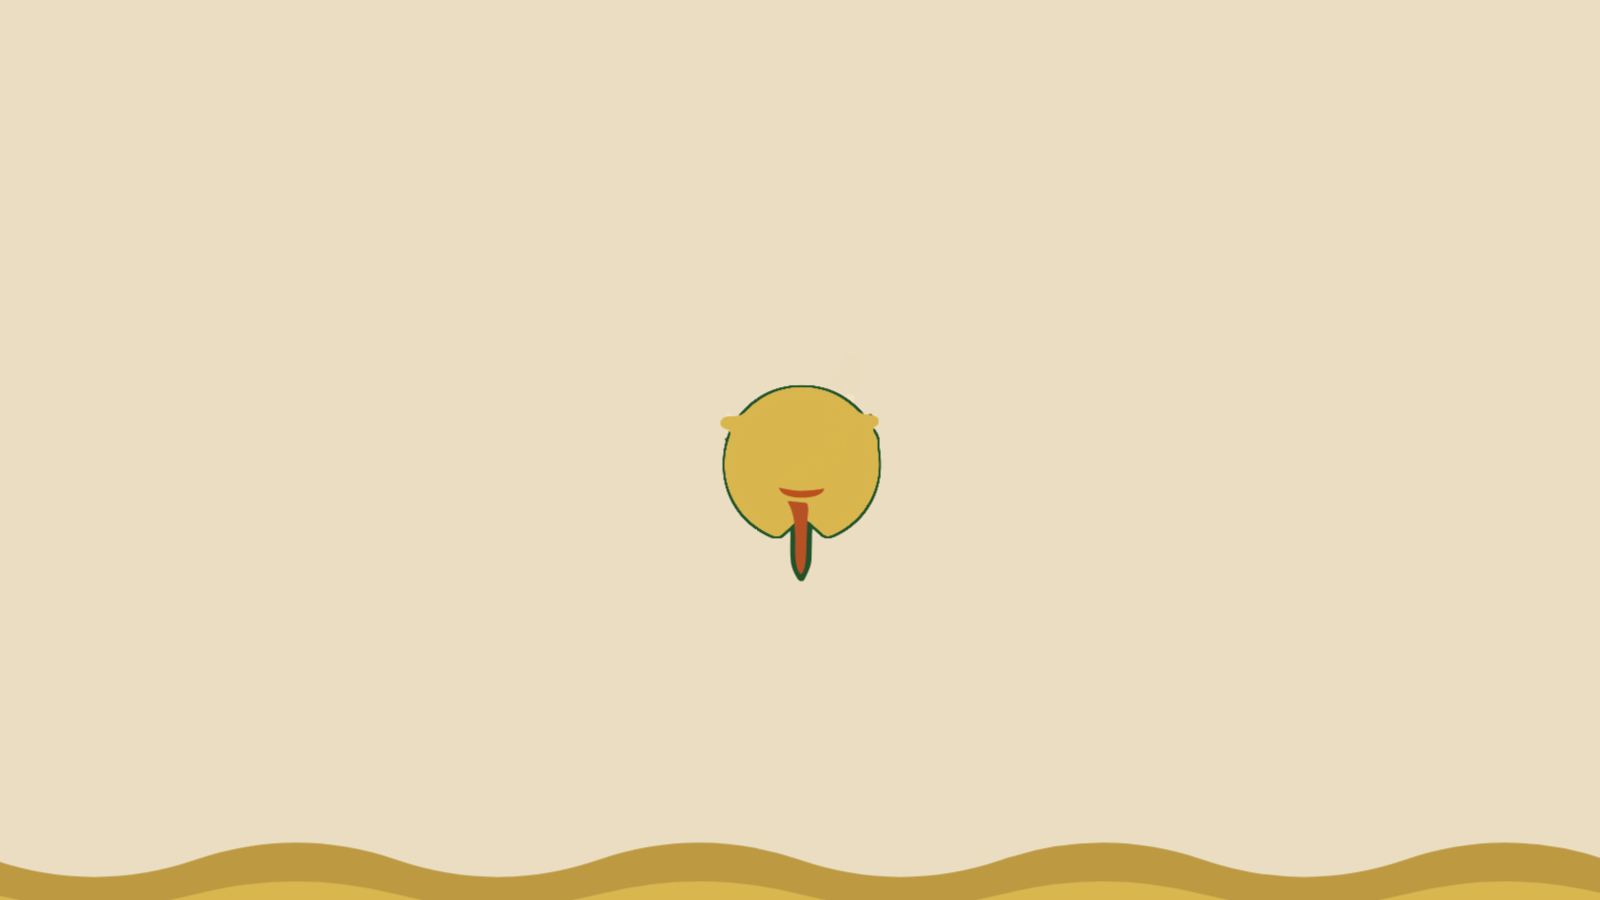
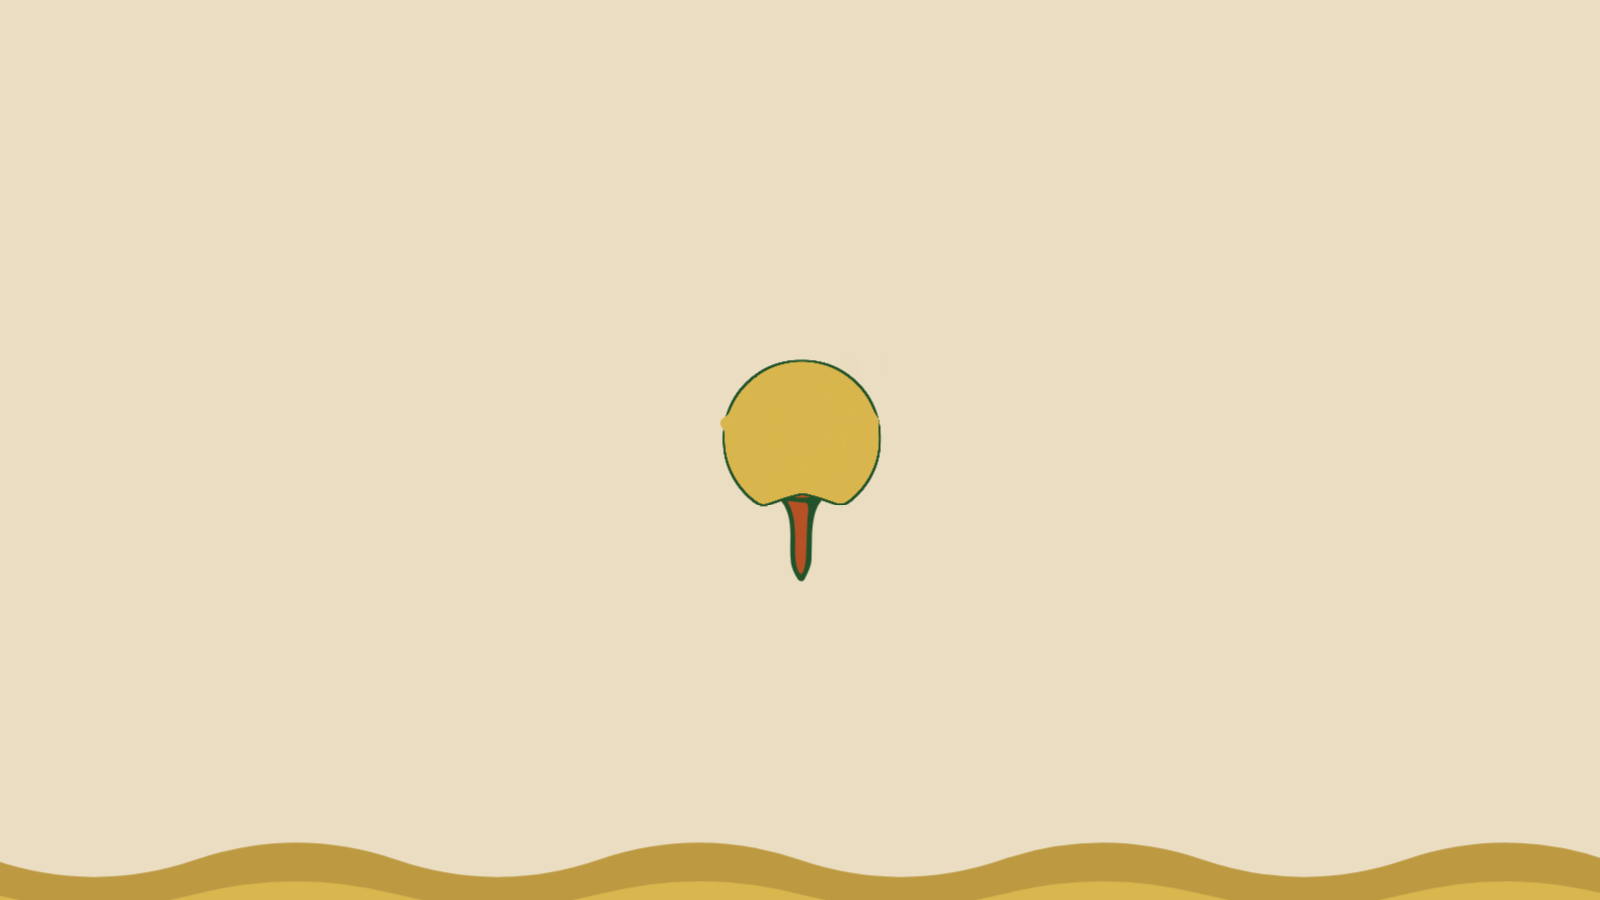
GSAP intro v3.8: true sphere geometry — crown at mid-S
The ball's crown was wrongly taken from the visible crescent's top edge
(y 918.6); the real sphere continues behind the pat. Corrected circle:
crown at the vertical middle of the S in BSG (y 855.9), center 1041.7,
r 185.8. Melt-front start/end re-derived; the butter cap now emerges
from beneath the pat and domes over the true crown.

Claude-Session: https://claude.ai/code/session_01XoixdVZHUDRa8j4FLVb79L

Changed region(s): [[0.4375, 0.4044, 0.5625, 0.6222]]

diff --git a/gsap/intro.html b/gsap/intro.html
@@ -104,7 +104,7 @@
       <g id="moltenRim" filter="url(#gooRim)">
     <g class="rPatArt"><path d="M 1567.0794,805.0633000000001 C 1609.861,795.0788000000001 1653.3692,785.0944000000001 1695.4243,775.1099000000002 L 1773.7997,756.2660000000001 C 1786.7239,753.3075000000001 1795.0346,750.5086000000001 1816.691,757.5790000000001 C 1847.8474,767.7821000000001 1879.2848,777.7509000000001 1910.16,788.1884000000001 C 1924.0271,792.9228000000002 1933.4418,800.1880000000001 1932.8479,822.0788000000001 L 1932.9395,880.4629000000001 C 1933.1039,894.1698000000001 1927.05,900.6620000000001 1914.3782,904.4862 C 1910.2658,905.7034000000001 1906.5003,906.3977000000001 1902.3515,907.9258000000001 C 1895.9406,910.3120000000001 1892.821,912.3362000000001 1889.8157,916.5335000000001 C 1884.0892,924.5998000000001 1878.8074,924.3693000000001 1873.9718,922.2053000000001 C 1864.9911,918.3587000000001 1856.2456,920.3220000000001 1847.3936,923.0492000000002 C 1822.4683,930.6670000000001 1796.3467,938.4243000000001 1770.4716,944.9874000000001 C 1748.5101,950.5189000000001 1734.8494,959.2474000000001 1732.5967,983.3319000000001 C 1731.9557,993.8473000000001 1732.7018,997.5278000000001 1733.2058,1003.0662000000001 C 1733.7997,1008.8865000000001 1733.643,1012.6736000000001 1732.737,1015.3946000000001 C 1730.472,1021.8950000000001 1724.8014,1022.7871000000001 1721.8619,1022.2383000000001 C 1715.6676,1021.0531000000001 1711.0879,1015.0366000000001 1710.6117,1004.5662000000001 C 1710.3696,997.7067000000001 1711.018,988.8320000000001 1710.6585,982.3004000000001 C 1710.1535,972.5685000000001 1704.172,964.7667000000001 1695.471,963.1756000000001 C 1685.9475,961.9009000000001 1679.8106,968.3437000000001 1675.9794,975.8955000000001 C 1674.8351,978.1510000000001 1673.9277,981.3335000000001 1672.5458,983.2364000000001 C 1669.9826,986.6215000000001 1666.1585,985.8627000000001 1661.6597,987.2911000000001 C 1658.1005,988.4210000000002 1655.0391,990.7332000000001 1653.0956,993.4099000000001 C 1649.6583,998.5900000000001 1650.127,1004.2156000000001 1650.6581,1010.1445000000001 C 1651.7055,1017.6450000000001 1654.5805,1023.2701000000002 1653.237,1035.3171000000002 C 1652.3229,1042.6851000000001 1646.8384,1045.2468000000001 1642.1275,1044.6924000000001 C 1633.6237,1043.5574000000001 1631.7006,1031.3709000000001 1632.5794,1024.0595 C 1633.4473,1016.7581000000001 1635.9253,1011.4737 1637.9087,1005.7387000000001 C 1640.1665,999.1215000000001 1642.4243,992.4572000000001 1643.3461,987.3634000000001 C 1645.7846,972.8775 1640.0446,964.7726000000001 1628.252,957.9726 L 1603.408,945.0818000000002 C 1595.5328,941.4846000000001 1586.9546,946.1972000000001 1586.8607,955.0195000000001 L 1586.6266,973.7695000000001 C 1586.2966,979.5165000000001 1583.9887,982.5544000000001 1579.5952,982.5354000000001 C 1566.322,982.2596000000001 1573.1141,959.0186000000001 1571.8606,949.0426000000001 C 1570.6344,940.3734000000001 1567.0397,933.8761000000001 1561.3139,929.3322000000001 C 1556.9303,925.9255 1550.2745,924.6287000000001 1546.1957,920.9414000000002 C 1542.9138,917.8797000000001 1541.1881,913.6515 1540.8048,908.5197000000001 C 1540.1254,899.3867000000001 1540.8989,857.4884000000001 1540.946,831.9726 C 1541.49,815.3735000000001 1552.0326,808.5706000000001 1567.0794,805.0633000000001" fill-rule="evenodd"/></g>
     <g clip-path="url(#coatClip)">
-      <ellipse class="rCoat" cx="1742.1" cy="1104.6" rx="190" ry="190"/>
+      <ellipse class="rCoat" cx="1742.1" cy="1041.7" rx="189.8" ry="189.8"/>
     </g>
     <ellipse class="rRun" cx="1604" cy="962" rx="28" ry="34" data-drift="-50"/>
 <ellipse class="rRun" cx="1676" cy="962" rx="33" ry="34" data-drift="-20"/>
@@ -115,7 +115,7 @@
       <g id="moltenGold" filter="url(#goo)" fill="#D9B64E">
     <g class="gPatArt"><path d="M 1567.0794,805.0633000000001 C 1609.861,795.0788000000001 1653.3692,785.0944000000001 1695.4243,775.1099000000002 L 1773.7997,756.2660000000001 C 1786.7239,753.3075000000001 1795.0346,750.5086000000001 1816.691,757.5790000000001 C 1847.8474,767.7821000000001 1879.2848,777.7509000000001 1910.16,788.1884000000001 C 1924.0271,792.9228000000002 1933.4418,800.1880000000001 1932.8479,822.0788000000001 L 1932.9395,880.4629000000001 C 1933.1039,894.1698000000001 1927.05,900.6620000000001 1914.3782,904.4862 C 1910.2658,905.7034000000001 1906.5003,906.3977000000001 1902.3515,907.9258000000001 C 1895.9406,910.3120000000001 1892.821,912.3362000000001 1889.8157,916.5335000000001 C 1884.0892,924.5998000000001 1878.8074,924.3693000000001 1873.9718,922.2053000000001 C 1864.9911,918.3587000000001 1856.2456,920.3220000000001 1847.3936,923.0492000000002 C 1822.4683,930.6670000000001 1796.3467,938.4243000000001 1770.4716,944.9874000000001 C 1748.5101,950.5189000000001 1734.8494,959.2474000000001 1732.5967,983.3319000000001 C 1731.9557,993.8473000000001 1732.7018,997.5278000000001 1733.2058,1003.0662000000001 C 1733.7997,1008.8865000000001 1733.643,1012.6736000000001 1732.737,1015.3946000000001 C 1730.472,1021.8950000000001 1724.8014,1022.7871000000001 1721.8619,1022.2383000000001 C 1715.6676,1021.0531000000001 1711.0879,1015.0366000000001 1710.6117,1004.5662000000001 C 1710.3696,997.7067000000001 1711.018,988.8320000000001 1710.6585,982.3004000000001 C 1710.1535,972.5685000000001 1704.172,964.7667000000001 1695.471,963.1756000000001 C 1685.9475,961.9009000000001 1679.8106,968.3437000000001 1675.9794,975.8955000000001 C 1674.8351,978.1510000000001 1673.9277,981.3335000000001 1672.5458,983.2364000000001 C 1669.9826,986.6215000000001 1666.1585,985.8627000000001 1661.6597,987.2911000000001 C 1658.1005,988.4210000000002 1655.0391,990.7332000000001 1653.0956,993.4099000000001 C 1649.6583,998.5900000000001 1650.127,1004.2156000000001 1650.6581,1010.1445000000001 C 1651.7055,1017.6450000000001 1654.5805,1023.2701000000002 1653.237,1035.3171000000002 C 1652.3229,1042.6851000000001 1646.8384,1045.2468000000001 1642.1275,1044.6924000000001 C 1633.6237,1043.5574000000001 1631.7006,1031.3709000000001 1632.5794,1024.0595 C 1633.4473,1016.7581000000001 1635.9253,1011.4737 1637.9087,1005.7387000000001 C 1640.1665,999.1215000000001 1642.4243,992.4572000000001 1643.3461,987.3634000000001 C 1645.7846,972.8775 1640.0446,964.7726000000001 1628.252,957.9726 L 1603.408,945.0818000000002 C 1595.5328,941.4846000000001 1586.9546,946.1972000000001 1586.8607,955.0195000000001 L 1586.6266,973.7695000000001 C 1586.2966,979.5165000000001 1583.9887,982.5544000000001 1579.5952,982.5354000000001 C 1566.322,982.2596000000001 1573.1141,959.0186000000001 1571.8606,949.0426000000001 C 1570.6344,940.3734000000001 1567.0397,933.8761000000001 1561.3139,929.3322000000001 C 1556.9303,925.9255 1550.2745,924.6287000000001 1546.1957,920.9414000000002 C 1542.9138,917.8797000000001 1541.1881,913.6515 1540.8048,908.5197000000001 C 1540.1254,899.3867000000001 1540.8989,857.4884000000001 1540.946,831.9726 C 1541.49,815.3735000000001 1552.0326,808.5706000000001 1567.0794,805.0633000000001" fill-rule="evenodd"/></g>
     <g clip-path="url(#coatClip)">
-      <ellipse class="gCoat" cx="1742.1" cy="1104.6" rx="190" ry="190"/>
+      <ellipse class="gCoat" cx="1742.1" cy="1041.7" rx="189.8" ry="189.8"/>
     </g>
     <ellipse class="gRun" cx="1604" cy="962" rx="28" ry="34" data-drift="-50"/>
 <ellipse class="gRun" cx="1676" cy="962" rx="33" ry="34" data-drift="-20"/>
@@ -166,7 +166,7 @@ gsap.set("#badgeMove", { autoAlpha: 0, scale: 0.92, transformOrigin: "50% 50%" }
 gsap.set(["#wmButter", "#wmSticks"], { autoAlpha: 0, y: 40 });
 gsap.set(".golfLetter", { autoAlpha: 0, y: 24 });
 gsap.set(".drop", { autoAlpha: 0 });
-gsap.set("#coatWave", { y: -230 });
+gsap.set("#coatWave", { y: -282 });
 gsap.set(["#pondBack", "#pondFront", "#tide"], { y: 920 });
 gsap.set("svg", { scale: 1.07, transformOrigin: "50% 50%" });
 gsap.set(".rRun, .gRun", { autoAlpha: 0 });
@@ -194,7 +194,7 @@ tl.addLabel("melt", 1.6)
   .to(".rPatArt", { opacity: 0, duration: 1.6, ease: "sine.in" }, "melt+=0.5")
   .to("#eraserRect", { attr: { height: 300 }, duration: 1.6, ease: "power1.out" }, "melt+=0.05")
   // butter coats the ball's crown, hugging the surface
-  .to("#coatWave", { y: 235, duration: 2.5, ease: "power1.inOut" }, "melt+=0.4")
+  .to("#coatWave", { y: 165, duration: 2.5, ease: "power1.inOut" }, "melt+=0.4")
   .to(".rRun, .gRun", { autoAlpha: 1, duration: 0.4, stagger: 0.15 }, "melt+=0.3")
   .to("#hornCover", { opacity: 1, duration: 0.5, ease: "sine.inOut" }, "melt+=0.9")
   // BSG melts letter by letter: stretches, sinks, turns to butter, dissolves

diff --git a/gsap/intro_artifact.html b/gsap/intro_artifact.html
@@ -97,7 +97,7 @@
       <g id="moltenRim" filter="url(#gooRim)">
     <g class="rPatArt"><path d="M 1567.0794,805.0633000000001 C 1609.861,795.0788000000001 1653.3692,785.0944000000001 1695.4243,775.1099000000002 L 1773.7997,756.2660000000001 C 1786.7239,753.3075000000001 1795.0346,750.5086000000001 1816.691,757.5790000000001 C 1847.8474,767.7821000000001 1879.2848,777.7509000000001 1910.16,788.1884000000001 C 1924.0271,792.9228000000002 1933.4418,800.1880000000001 1932.8479,822.0788000000001 L 1932.9395,880.4629000000001 C 1933.1039,894.1698000000001 1927.05,900.6620000000001 1914.3782,904.4862 C 1910.2658,905.7034000000001 1906.5003,906.3977000000001 1902.3515,907.9258000000001 C 1895.9406,910.3120000000001 1892.821,912.3362000000001 1889.8157,916.5335000000001 C 1884.0892,924.5998000000001 1878.8074,924.3693000000001 1873.9718,922.2053000000001 C 1864.9911,918.3587000000001 1856.2456,920.3220000000001 1847.3936,923.0492000000002 C 1822.4683,930.6670000000001 1796.3467,938.4243000000001 1770.4716,944.9874000000001 C 1748.5101,950.5189000000001 1734.8494,959.2474000000001 1732.5967,983.3319000000001 C 1731.9557,993.8473000000001 1732.7018,997.5278000000001 1733.2058,1003.0662000000001 C 1733.7997,1008.8865000000001 1733.643,1012.6736000000001 1732.737,1015.3946000000001 C 1730.472,1021.8950000000001 1724.8014,1022.7871000000001 1721.8619,1022.2383000000001 C 1715.6676,1021.0531000000001 1711.0879,1015.0366000000001 1710.6117,1004.5662000000001 C 1710.3696,997.7067000000001 1711.018,988.8320000000001 1710.6585,982.3004000000001 C 1710.1535,972.5685000000001 1704.172,964.7667000000001 1695.471,963.1756000000001 C 1685.9475,961.9009000000001 1679.8106,968.3437000000001 1675.9794,975.8955000000001 C 1674.8351,978.1510000000001 1673.9277,981.3335000000001 1672.5458,983.2364000000001 C 1669.9826,986.6215000000001 1666.1585,985.8627000000001 1661.6597,987.2911000000001 C 1658.1005,988.4210000000002 1655.0391,990.7332000000001 1653.0956,993.4099000000001 C 1649.6583,998.5900000000001 1650.127,1004.2156000000001 1650.6581,1010.1445000000001 C 1651.7055,1017.6450000000001 1654.5805,1023.2701000000002 1653.237,1035.3171000000002 C 1652.3229,1042.6851000000001 1646.8384,1045.2468000000001 1642.1275,1044.6924000000001 C 1633.6237,1043.5574000000001 1631.7006,1031.3709000000001 1632.5794,1024.0595 C 1633.4473,1016.7581000000001 1635.9253,1011.4737 1637.9087,1005.7387000000001 C 1640.1665,999.1215000000001 1642.4243,992.4572000000001 1643.3461,987.3634000000001 C 1645.7846,972.8775 1640.0446,964.7726000000001 1628.252,957.9726 L 1603.408,945.0818000000002 C 1595.5328,941.4846000000001 1586.9546,946.1972000000001 1586.8607,955.0195000000001 L 1586.6266,973.7695000000001 C 1586.2966,979.5165000000001 1583.9887,982.5544000000001 1579.5952,982.5354000000001 C 1566.322,982.2596000000001 1573.1141,959.0186000000001 1571.8606,949.0426000000001 C 1570.6344,940.3734000000001 1567.0397,933.8761000000001 1561.3139,929.3322000000001 C 1556.9303,925.9255 1550.2745,924.6287000000001 1546.1957,920.9414000000002 C 1542.9138,917.8797000000001 1541.1881,913.6515 1540.8048,908.5197000000001 C 1540.1254,899.3867000000001 1540.8989,857.4884000000001 1540.946,831.9726 C 1541.49,815.3735000000001 1552.0326,808.5706000000001 1567.0794,805.0633000000001" fill-rule="evenodd"/></g>
     <g clip-path="url(#coatClip)">
-      <ellipse class="rCoat" cx="1742.1" cy="1104.6" rx="190" ry="190"/>
+      <ellipse class="rCoat" cx="1742.1" cy="1041.7" rx="189.8" ry="189.8"/>
     </g>
     <ellipse class="rRun" cx="1604" cy="962" rx="28" ry="34" data-drift="-50"/>
 <ellipse class="rRun" cx="1676" cy="962" rx="33" ry="34" data-drift="-20"/>
@@ -108,7 +108,7 @@
       <g id="moltenGold" filter="url(#goo)" fill="#D9B64E">
     <g class="gPatArt"><path d="M 1567.0794,805.0633000000001 C 1609.861,795.0788000000001 1653.3692,785.0944000000001 1695.4243,775.1099000000002 L 1773.7997,756.2660000000001 C 1786.7239,753.3075000000001 1795.0346,750.5086000000001 1816.691,757.5790000000001 C 1847.8474,767.7821000000001 1879.2848,777.7509000000001 1910.16,788.1884000000001 C 1924.0271,792.9228000000002 1933.4418,800.1880000000001 1932.8479,822.0788000000001 L 1932.9395,880.4629000000001 C 1933.1039,894.1698000000001 1927.05,900.6620000000001 1914.3782,904.4862 C 1910.2658,905.7034000000001 1906.5003,906.3977000000001 1902.3515,907.9258000000001 C 1895.9406,910.3120000000001 1892.821,912.3362000000001 1889.8157,916.5335000000001 C 1884.0892,924.5998000000001 1878.8074,924.3693000000001 1873.9718,922.2053000000001 C 1864.9911,918.3587000000001 1856.2456,920.3220000000001 1847.3936,923.0492000000002 C 1822.4683,930.6670000000001 1796.3467,938.4243000000001 1770.4716,944.9874000000001 C 1748.5101,950.5189000000001 1734.8494,959.2474000000001 1732.5967,983.3319000000001 C 1731.9557,993.8473000000001 1732.7018,997.5278000000001 1733.2058,1003.0662000000001 C 1733.7997,1008.8865000000001 1733.643,1012.6736000000001 1732.737,1015.3946000000001 C 1730.472,1021.8950000000001 1724.8014,1022.7871000000001 1721.8619,1022.2383000000001 C 1715.6676,1021.0531000000001 1711.0879,1015.0366000000001 1710.6117,1004.5662000000001 C 1710.3696,997.7067000000001 1711.018,988.8320000000001 1710.6585,982.3004000000001 C 1710.1535,972.5685000000001 1704.172,964.7667000000001 1695.471,963.1756000000001 C 1685.9475,961.9009000000001 1679.8106,968.3437000000001 1675.9794,975.8955000000001 C 1674.8351,978.1510000000001 1673.9277,981.3335000000001 1672.5458,983.2364000000001 C 1669.9826,986.6215000000001 1666.1585,985.8627000000001 1661.6597,987.2911000000001 C 1658.1005,988.4210000000002 1655.0391,990.7332000000001 1653.0956,993.4099000000001 C 1649.6583,998.5900000000001 1650.127,1004.2156000000001 1650.6581,1010.1445000000001 C 1651.7055,1017.6450000000001 1654.5805,1023.2701000000002 1653.237,1035.3171000000002 C 1652.3229,1042.6851000000001 1646.8384,1045.2468000000001 1642.1275,1044.6924000000001 C 1633.6237,1043.5574000000001 1631.7006,1031.3709000000001 1632.5794,1024.0595 C 1633.4473,1016.7581000000001 1635.9253,1011.4737 1637.9087,1005.7387000000001 C 1640.1665,999.1215000000001 1642.4243,992.4572000000001 1643.3461,987.3634000000001 C 1645.7846,972.8775 1640.0446,964.7726000000001 1628.252,957.9726 L 1603.408,945.0818000000002 C 1595.5328,941.4846000000001 1586.9546,946.1972000000001 1586.8607,955.0195000000001 L 1586.6266,973.7695000000001 C 1586.2966,979.5165000000001 1583.9887,982.5544000000001 1579.5952,982.5354000000001 C 1566.322,982.2596000000001 1573.1141,959.0186000000001 1571.8606,949.0426000000001 C 1570.6344,940.3734000000001 1567.0397,933.8761000000001 1561.3139,929.3322000000001 C 1556.9303,925.9255 1550.2745,924.6287000000001 1546.1957,920.9414000000002 C 1542.9138,917.8797000000001 1541.1881,913.6515 1540.8048,908.5197000000001 C 1540.1254,899.3867000000001 1540.8989,857.4884000000001 1540.946,831.9726 C 1541.49,815.3735000000001 1552.0326,808.5706000000001 1567.0794,805.0633000000001" fill-rule="evenodd"/></g>
     <g clip-path="url(#coatClip)">
-      <ellipse class="gCoat" cx="1742.1" cy="1104.6" rx="190" ry="190"/>
+      <ellipse class="gCoat" cx="1742.1" cy="1041.7" rx="189.8" ry="189.8"/>
     </g>
     <ellipse class="gRun" cx="1604" cy="962" rx="28" ry="34" data-drift="-50"/>
 <ellipse class="gRun" cx="1676" cy="962" rx="33" ry="34" data-drift="-20"/>
@@ -159,7 +159,7 @@ gsap.set("#badgeMove", { autoAlpha: 0, scale: 0.92, transformOrigin: "50% 50%" }
 gsap.set(["#wmButter", "#wmSticks"], { autoAlpha: 0, y: 40 });
 gsap.set(".golfLetter", { autoAlpha: 0, y: 24 });
 gsap.set(".drop", { autoAlpha: 0 });
-gsap.set("#coatWave", { y: -230 });
+gsap.set("#coatWave", { y: -282 });
 gsap.set(["#pondBack", "#pondFront", "#tide"], { y: 920 });
 gsap.set("svg", { scale: 1.07, transformOrigin: "50% 50%" });
 gsap.set(".rRun, .gRun", { autoAlpha: 0 });
@@ -187,7 +187,7 @@ tl.addLabel("melt", 1.6)
   .to(".rPatArt", { opacity: 0, duration: 1.6, ease: "sine.in" }, "melt+=0.5")
   .to("#eraserRect", { attr: { height: 300 }, duration: 1.6, ease: "power1.out" }, "melt+=0.05")
   // butter coats the ball's crown, hugging the surface
-  .to("#coatWave", { y: 235, duration: 2.5, ease: "power1.inOut" }, "melt+=0.4")
+  .to("#coatWave", { y: 165, duration: 2.5, ease: "power1.inOut" }, "melt+=0.4")
   .to(".rRun, .gRun", { autoAlpha: 1, duration: 0.4, stagger: 0.15 }, "melt+=0.3")
   .to("#hornCover", { opacity: 1, duration: 0.5, ease: "sine.inOut" }, "melt+=0.9")
   // BSG melts letter by letter: stretches, sinks, turns to butter, dissolves

diff --git a/tools/build_gsap_intro.py b/tools/build_gsap_intro.py
@@ -21,7 +21,9 @@ GOLDEN = "#D9B64E"
 DEEP = "#BD9A42"
 GREEN = "#21522a"
 
-BALL_CX, BALL_CY, BALL_R = 1742.1, 1104.6, 186
+# True sphere: crown sits at the vertical middle of the 'S' in BSG (y 855.9),
+# radius from the ball's widest span -> center y = 855.9 + 185.8
+BALL_CX, BALL_CY, BALL_R = 1742.1, 1041.7, 185.8
 
 
 def paths(group, keep_fill=True, cls=""):
@@ -157,7 +159,7 @@ gsap.set("#badgeMove", {{ autoAlpha: 0, scale: 0.92, transformOrigin: "50% 50%" 
 gsap.set(["#wmButter", "#wmSticks"], {{ autoAlpha: 0, y: 40 }});
 gsap.set(".golfLetter", {{ autoAlpha: 0, y: 24 }});
 gsap.set(".drop", {{ autoAlpha: 0 }});
-gsap.set("#coatWave", {{ y: -230 }});
+gsap.set("#coatWave", {{ y: -282 }});
 gsap.set(["#pondBack", "#pondFront", "#tide"], {{ y: 920 }});
 gsap.set("svg", {{ scale: 1.07, transformOrigin: "50% 50%" }});
 gsap.set(".rRun, .gRun", {{ autoAlpha: 0 }});
@@ -185,7 +187,7 @@ tl.addLabel("melt", 1.6)
   .to(".rPatArt", {{ opacity: 0, duration: 1.6, ease: "sine.in" }}, "melt+=0.5")
   .to("#eraserRect", {{ attr: {{ height: 300 }}, duration: 1.6, ease: "power1.out" }}, "melt+=0.05")
   // butter coats the ball's crown, hugging the surface
-  .to("#coatWave", {{ y: 235, duration: 2.5, ease: "power1.inOut" }}, "melt+=0.4")
+  .to("#coatWave", {{ y: 165, duration: 2.5, ease: "power1.inOut" }}, "melt+=0.4")
   .to(".rRun, .gRun", {{ autoAlpha: 1, duration: 0.4, stagger: 0.15 }}, "melt+=0.3")
   .to("#hornCover", {{ opacity: 1, duration: 0.5, ease: "sine.inOut" }}, "melt+=0.9")
   // BSG melts letter by letter: stretches, sinks, turns to butter, dissolves
